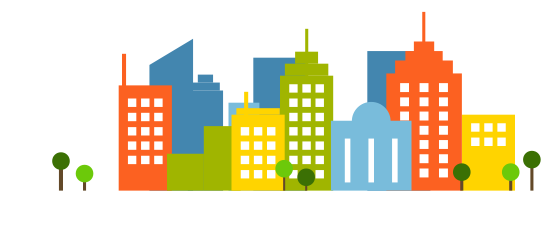
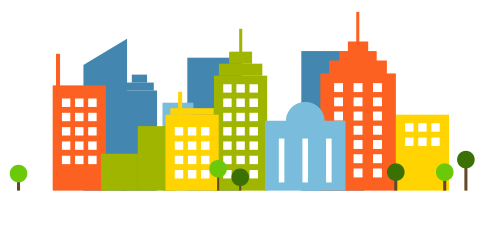
section1 & section2 작업 50%

diff --git a/src/components/MainPage/Section2.vue b/src/components/MainPage/Section2.vue
@@ -1,26 +1,38 @@
 <template>
   <div class="section">
-      <v-layout row wrap justify-center style="width:100%; height:80%">
-        <v-flex xs10 offset-xs1 text-center class="display-2">
-          <span class="sm-link sm-link_padding-bottom sm-link3">
-            <span class="sm-link__label">기업공고</span>
+    <v-layout row wrap justify-center style="height:55%">
+      <v-flex xs6 v-show="!showUpRecruit">
+        <v-flex xs12 text-center v-show="!showUpRecruit">
+          <span class="sm-link sm-link_padding-bottom sm-link3" style="height:7%" @mouseover="showUpCompanyList=true" @mouseleave="showUpCompanyList=false">
+            <span class="sm-link__label"><h2> 기업 정보 </h2> </span>
           </span>
-        <img src="../../assets/companyListImg.png" style="position:absolute; left:25%; bottom:0%;"/>
-
-        <!-- <v-flex xs12 text-center>
-            <div v-if="this.$store.getters.getLevel==2">
-              유저에겐 어떻게하면 공고가 보이는지 알려주자
+        </v-flex>
+        <v-flex xs12 text-center v-show="!showUpRecruit">
+          <router-link :to="{ name: 'companyListPage' }" class="bannerBtn">
+            <div class="bannerBtn sm-link sm-link_padding-all sm-link1">
+              <div class="sm-link__label" @mouseover="showUpCompanyList=true" @mouseleave="showUpCompanyList=false">
+                <i class="far fa-building fa-7x"/><br/>
+                <span>기업리스트</span>
+              </div>
             </div>
-          <div v-else-if="this.$store.getters.getLevel==3">
-            기업에겐 공고를 어디서 작성하는지 알려주자
-          </div>
-          비로그인 유저에겐 국물도 없다
-        </v-flex> -->
-
+          </router-link>
+        </v-flex>
+      </v-flex>
+      <v-flex xs6 v-show="showUpRecruit">
         <v-flex xs12 text-center>
+        아휴
+        </v-flex>
+      </v-flex>
+      <v-flex xs6 v-show="!showUpCompanyList">
+        <v-flex xs12 text-center v-show="!showUpCompanyList">
+          <span class="sm-link sm-link_padding-bottom sm-link3" style="height:7%" @mouseover="showUpRecruit=true" @mouseleave="showUpRecruit=false">
+            <span class="sm-link__label"><h2> 외주 공고 </h2> </span>
+          </span>
+        </v-flex>
+        <v-flex xs12 text-center v-show="!showUpCompanyList">
           <router-link :to="{ name: 'recruits' }" class="bannerBtn">
             <div class="bannerBtn sm-link sm-link_padding-all sm-link1">
-                <div class="sm-link__label">
+              <div class="sm-link__label"  @mouseover="showUpRecruit=true" @mouseleave="showUpRecruit=false">
                 <i class="far fa-handshake fa-7x"/><br/>
                 <span>공고페이지</span>
               </div>
@@ -28,9 +40,18 @@
           </router-link>
         </v-flex>
       </v-flex>
-      </v-layout>
+      <v-flex xs6 v-show="showUpCompanyList">
+        <v-flex xs12 text-center>
+        어휴
+        </v-flex>
+      </v-flex>
+    </v-layout>
+    <v-layout row justify-center>
+      <img src="../../assets/companyListImg.png" style="position:absolute;bottom:0%"/>
+    </v-layout>
   </div>
 </template>
+
 
 
 <script>
@@ -43,6 +64,8 @@ export default {
   },
   data() {
     return {
+      showUpCompanyList:false,
+      showUpRecruit:false,
     }
   },
   created() {},

diff --git a/src/components/MainPage/Section1.vue b/src/components/MainPage/Section1.vue
@@ -1,12 +1,14 @@
 <template>
   <div class="section">
-      <v-layout row wrap justify-center style="width:80%; height:80%">
-          <v-flex xs6 v-if="this.$store.getters.getLevel==2 || this.$store.getters.getLevel==3">
-          <div style="color:white" v-if="this.$store.getters.getLevel==2">
-            <h1>Share your Portfolio!</h1>
-              우리는 당신의 포트폴리오를 원한다<br/>
-              내놔라 당신의 포트폴리오<br/>
-              지금 작성하러 가볼까요?<br/>
+      <v-layout row wrap justify-center style="height:46%">
+          <v-flex sm5 xs10 offset-sm1 xs2 v-if="this.$store.getters.getLevel==2 || this.$store.getters.getLevel==3">
+          <div style="color:black" v-if="this.$store.getters.getLevel==2">
+            <h1>당신의 프로젝트를 공유해보세요!</h1>
+              <br/>
+              간단한 프로젝트 작성을 통해 <br/>
+              포트폴리오를 만들 수 있고 <br/>
+              포트폴리오를 기반으로 외주를 구할 수도 있습니다.<br/>
+              지금 프로젝트를 작성하러 가세요!<br/>
             </div>
             <div v-else-if="this.$store.getters.getLevel==3">
               <h1>Take users Portfolio!</h1>
@@ -15,15 +17,14 @@
               지금 작성하러 가볼까요?<br/>
             </div>
           </v-flex>
-
-          <v-flex xs6 v-else text-center>
+          <v-flex sm5 xs10 offset-sm1 xs2 v-else text-center>
             <div>
               <h1>당신의 포트폴리오를 공유하세요!</h1>
               우리사이트는 멋진 사이트다~ 이말이야!
             </div>
           </v-flex>
 
-        <v-flex xs12 sm6 style="text-align: center;">
+        <v-flex sm5 xs10 offset-sm1 xs2 style="text-align: center;">
           <!-- 유저일때 -->
           <router-link :to="{ name: 'story', params: { id: this.$session.get('session_id') }}" v-if="this.$store.getters.getLevel==2" class="bannerBtn">
             <div class="bannerBtn sm-link sm-link_padding-all sm-link1">
@@ -52,7 +53,6 @@
       <!-- <div v-bind:style="{ 'backgroundImage': 'url(' + wallpaper   + ')'}" >
         <div style="padding:100%;"></div>
       </div> -->
-    </v-container>
   </div>
 </template>
 

diff --git a/src/views/CompanyListPage.vue b/src/views/CompanyListPage.vue
@@ -1,5 +1,5 @@
 <template>
-  <div>
+  <div style="margin-top:5%">
     <div class="searchBar__container">
       <div class="searchBar__content">
         <div class="searchBar__icon">
@@ -10,7 +10,8 @@
             type="text"
             v-model="inputKeyword"
             class="searchBar__input__box"
-            placeholder="회사명을 입력하세요."
+            placeholder=" 회사명을 입력하세요."
+            style="border:1px solid; border-radius: 10px; outline:none;"
             @keyup.enter="seacrh(inputKeyword)"
           />
           <button
@@ -70,10 +71,7 @@ export default {
       if (this.inputKeyword !== "") {
         this.showCompanyList = [];
         for (let i = 0; i < this.allCompanyList.length; i++) {
-          if (
-            this.allCompanyList[i].company_name.indexOf(this.inputKeyword) !==
-            -1
-          ) {
+          if (this.allCompanyList[i].company_name.indexOf(this.inputKeyword) !== -1) {
             this.showCompanyList.push(this.allCompanyList[i]);
           }
         }

diff --git a/src/components/Common/Header.vue b/src/components/Common/Header.vue
@@ -14,9 +14,9 @@
 
   <v-layout  style="flex:0; padding:0 10px; z-index:4; position:absolute; width:100%;">
     <v-layout row wrap>
-      <v-btn text class="font-bold-light title" to="/" style="height:56px; color:blueviolet; margin-left: 36px;text-shadow: -1px 0 #fff, 0 1px #fff, 1px 0 #fff, 0 -1px #fff;    font-weight: bolder;">Sharefolio</v-btn>
+      <v-btn text class="font-bold-light title" to="/" style="height:56px; color:black; margin-left: 7% ;text-shadow: -1px 0 #fff, 0 1px #fff, 1px 0 #fff, 0 -1px #fff;    font-weight: bolder;">Sharefolio</v-btn>
       <v-spacer />
-      <div style=" display: flex;">
+      <div style=" display: flex; margin-right:7%">
         <v-btn text style="height:56px;" class="font-bold-light" to="/Manager" v-if="this.$store.getters.getLevel===0 || this.$store.getters.getLevel===1">Manager</v-btn>
         <Sign v-on:login_success="login_success" v-on:logout_success="logout_success"/>
       </div>

diff --git a/src/views/Recruit.vue b/src/views/Recruit.vue
@@ -78,7 +78,7 @@
     </div>
 
     <!-- 비 로그인 유저라면 아래 레이아웃 출력 -->
-    <div v-else="this.$store.getters.getLevel!=3" style="margin:10px;">
+    <div v-if="typeof(this.$store.getters.getLevel) =='string'">" style="margin:10px;">
       <v-layout row wrap justify-center style="margin:80px;">
         <h1>로그인이 필요한 서비스입니다.</h1>
       </v-layout>
